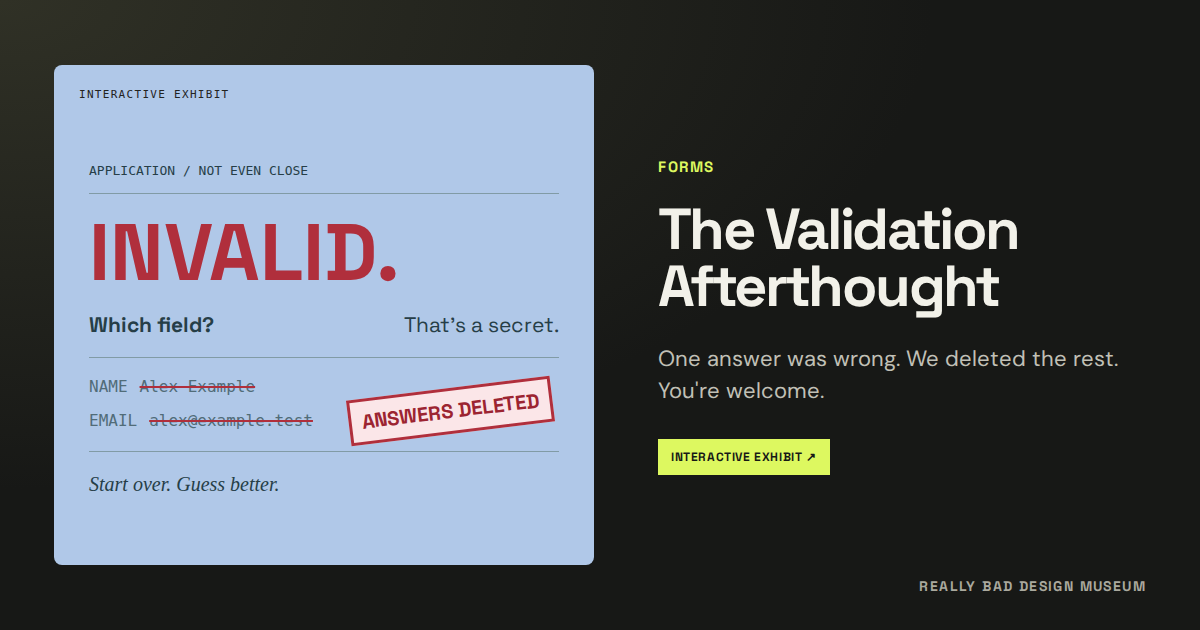
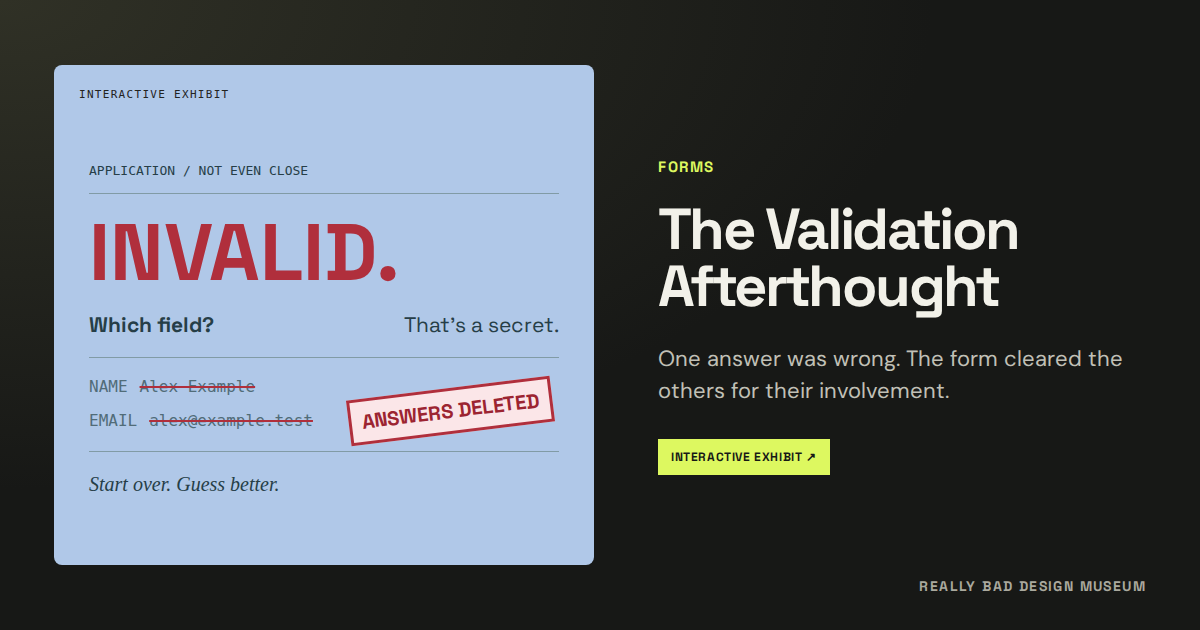
Refine Validation Afterthought copy and share thumbnail

Changed region(s): [[0.5242, 0.5429, 0.925, 0.6333]]

diff --git a/exhibits/website-behavior.js b/exhibits/website-behavior.js
@@ -3,7 +3,7 @@ import { createStageShell } from "./shared.js";
 export const exhibits = [
   { id: "hover-menu", name: "The Hover Dependency", category: "Navigation", color: "pink", tagline: "I wanted a lamp. Not a mouse exam.", description: "One desk lamp. Several menus. Apparently you need the hands of a surgeon.", lesson: "The designer drew the menu open. Nobody asked how a person would get there.", fix: "Click-open menus stay open across gaps, touch gestures, and moments of hesitation.", worseChange: "The bridges now take a tiny twisting detour. So does your shopping trip.", preview: `<div class="new-preview preview-hover-tightrope"><span class="hover-preview-kicker">ONLINE SHOPPING / MOTOR SKILLS EXAM</span><strong>I JUST WANTED<br>A LAMP.</strong><div class="hover-preview-course" aria-hidden="true"><span class="hover-preview-shop">Shop +</span><i class="hover-preview-wire"></i><span class="hover-preview-destination">Desk lamps</span><b class="hover-preview-cursor">&#8598;</b><span class="hover-preview-fall">1 pixel later...</span></div><div class="hover-preview-verdict"><b>Menu closed.</b><span>Try being a surgeon.</span></div></div>`, render: renderHoverDependency },
   { id: "layout-earthquake", name: "The Layout Earthquake", category: "Content", color: "green", tagline: "The link was right there a second ago.", description: "Read the news while oversized ads push the story and its bookmark out of reach.", lesson: "Nobody reserved space for the content. Unfortunately, your click already had a reservation.", fix: "The ads have their own space. Your story stays where you left it.", worseChange: "The library story is further down, the ads are harder to shake, and even the columns won't sit still.", preview: `<div class="new-preview preview-earthquake-paper"><span class="earthquake-preview-masthead">THE DAILY DISPLACEMENT</span><strong>Just one quick article.</strong><img src="/assets/library.jpg" alt="" width="1200" height="800"><div class="earthquake-preview-ad"><span>BREAKING: SPONSORED CONTENT</span><b>THIS AD HAS<br>RIGHT OF WAY.</b><small>Your article can take the stairs.</small></div><span class="earthquake-preview-link">Read arti&hellip; <i aria-hidden="true">&#8595;</i></span><span class="earthquake-preview-pointer" aria-hidden="true">&#8598;</span><small class="earthquake-preview-punchline">You clicked here.<br>The article didn't.</small></div>`, render: renderLayoutEarthquake },
-  { id: "validation-afterthought", name: "The Validation Afterthought", category: "Forms", color: "blue", tagline: "Four fields. One error. Start over.", description: "Hidden registration rules arrive one rejection at a time, taking the rest with them.", lesson: "The form knew the requirements all along. Apparently that information was on a need-to-fail basis.", fix: "Requirements are visible, errors belong to their fields, and your other answers stay put.", worseChange: "Useful guidance has been replaced by one cryptic complaint.", preview: `<div class="new-preview preview-validation-rejection"><span class="validation-preview-kicker">APPLICATION / NOT EVEN CLOSE</span><strong class="validation-preview-verdict">INVALID.</strong><div class="validation-preview-question"><b>Which field?</b><span>That's a secret.</span></div><div class="validation-preview-answers"><span>NAME <s>Alex Example</s></span><span>EMAIL <s>alex@example.test</s></span><b>ANSWERS DELETED</b></div><small class="validation-preview-footer">Start over. Guess better.</small></div>`, render: renderValidationAfterthought },
+  { id: "validation-afterthought", name: "The Validation Afterthought", category: "Forms", color: "blue", tagline: "Four fields. One error. Start over.", description: "One answer was wrong. The form cleared the others for their involvement.", lesson: "The form knew the requirements all along. Apparently that information was on a need-to-fail basis.", fix: "Requirements are visible, errors belong to their fields, and your other answers stay put.", worseChange: "Useful guidance has been replaced by one cryptic complaint.", preview: `<div class="new-preview preview-validation-rejection"><span class="validation-preview-kicker">APPLICATION / NOT EVEN CLOSE</span><strong class="validation-preview-verdict">INVALID.</strong><div class="validation-preview-question"><b>Which field?</b><span>That's a secret.</span></div><div class="validation-preview-answers"><span>NAME <s>Alex Example</s></span><span>EMAIL <s>alex@example.test</s></span><b>ANSWERS DELETED</b></div><small class="validation-preview-footer">Start over. Guess better.</small></div>`, render: renderValidationAfterthought },
   { id: "scroll-modal", name: "The Scroll-Through Modal", category: "Interaction", color: "lilac", tagline: "You're scrolling. Just not the dialog.", description: "Save one day for $5,000. Free delivery? Keep scrolling. Wrong window.", lesson: "Two scroll containers entered. The one you couldn't use got every gesture.", fix: "The active dialog owns its scrolling, and the background stays still.", worseChange: "Shipping speed requires a third dialog, opened from the bottom of the second. Each gesture randomly scrolls one, two, or all three layers, sometimes in opposite directions.", preview: `<div class="new-preview preview-scroll-checkout"><div class="scroll-preview-back"><span>YOUR ORDER</span><span>Delivery: still deciding</span></div><div class="scroll-preview-front"><span class="scroll-preview-title">DELIVERY OPTIONS <b aria-hidden="true">&times;</b></span><span class="scroll-preview-offer">SAVE ONE DAY.</span><strong>$5,000</strong><small>One day. Five grand.</small><span class="scroll-preview-free">Free? Further down.</span><i class="scroll-preview-rail" aria-hidden="true"></i></div><span class="scroll-preview-punchline">YOU SCROLLED THE WRONG WINDOW.</span></div>`, render: renderScrollModal },
 ];
 
